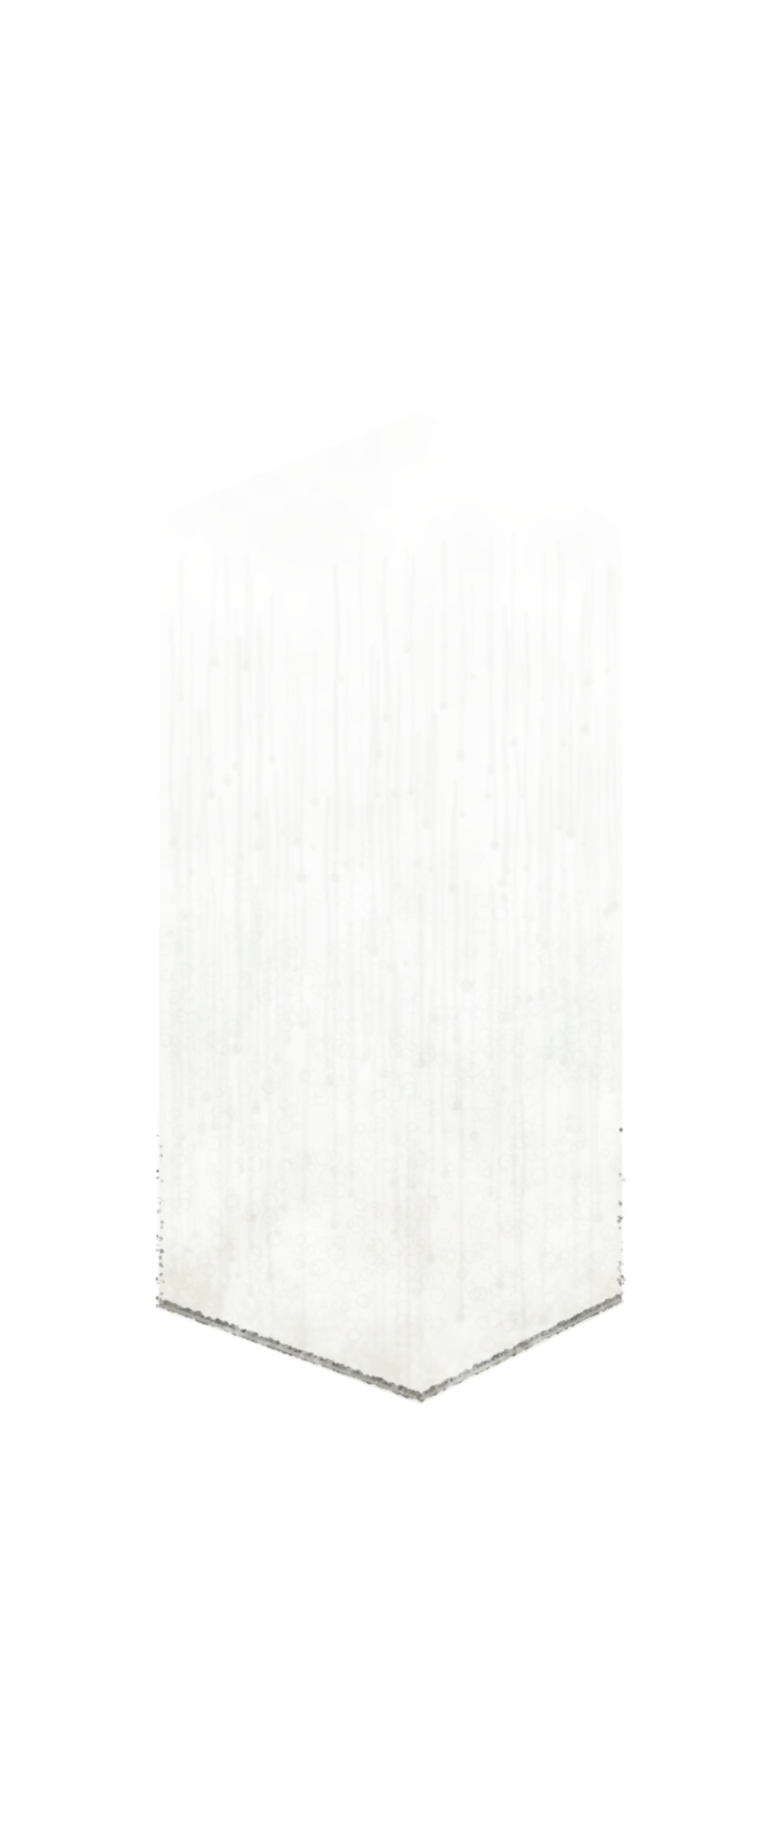
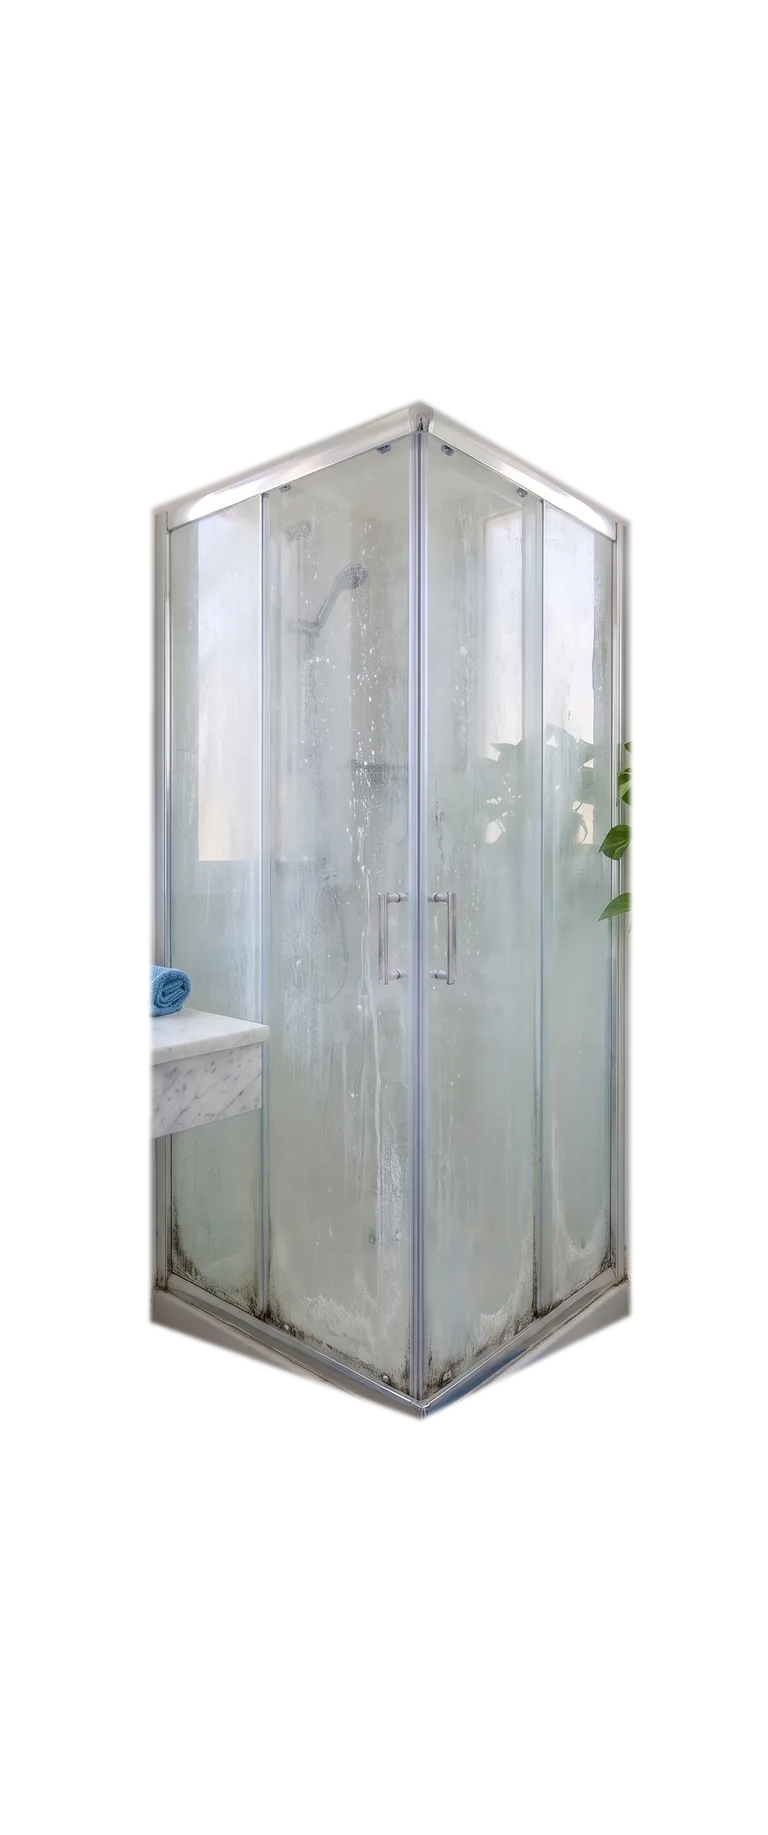
אבנית אמיתית בפתיחה: הזכוכית המלוכלכת נוצרה מהתמונה המקורית (Gemini) ונחתכה לשכבה

Changed region(s): [[0.1875, 0.2174, 0.8438, 0.7766]]

diff --git a/index.html b/index.html
@@ -36,7 +36,7 @@ html, body { background: var(--marble); }
 .cam__img, .cam__dirt { position: absolute; inset: 0; width: 100%; height: 100%; max-width: none; }
 /* הזכוכית: שכבת האבנית חתוכה לצורת המקלחון, והמגב מנקה מלמעלה למטה */
 .glasspane { position: absolute; inset: 0;
-  clip-path: polygon(20.8% 28%, 54.7% 22.35%, 80.9% 28.7%, 80.9% 71.05%, 54.7% 76.5%, 20.65% 71.3%); }
+  clip-path: polygon(19.8% 27.7%, 54.7% 21.8%, 81.9% 28.4%, 81.9% 71.7%, 54.7% 77.3%, 19.6% 72%); }
 .cam__dirt { --w: 0%;
   -webkit-mask-image: linear-gradient(to bottom, transparent calc(var(--w) - 1.2%), #000 calc(var(--w) + 0.6%));
           mask-image: linear-gradient(to bottom, transparent calc(var(--w) - 1.2%), #000 calc(var(--w) + 0.6%)); }
@@ -458,7 +458,7 @@ html, body { background: var(--marble); }
 
     // השיא: מגב עובר מלמעלה למטה על הזכוכית
     const w = reduced ? (p > WIPE[0] ? 1 : 0) : clamp((p - WIPE[0]) / (WIPE[1] - WIPE[0]));
-    const gy = 21 + w * 57;
+    const gy = 21 + w * 57.5;
     dirt.style.setProperty("--w", (w === 0 ? 0 : gy) + "%");
     dirt.style.opacity = w >= 1 ? 0 : 1;
     squeegee.style.top = gy + "%";
